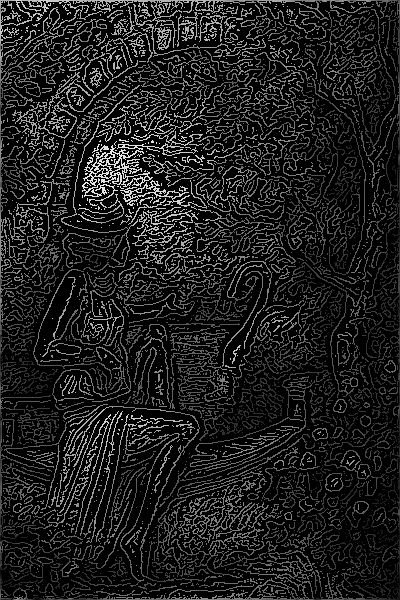
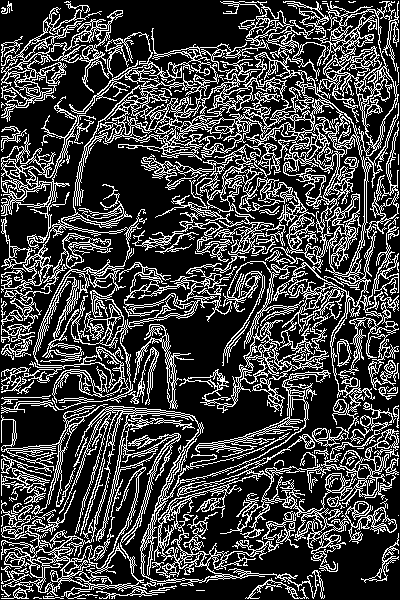
modify gitignore

diff --git a/hw2_b11902167/hw2.py b/hw2_b11902167/hw2.py
@@ -29,46 +29,61 @@ class Image:
 
         return gradient_magnitude, gradient_orientation
 
-    def non_maximum_suppression(img, magnitude, orientation):
+    def non_maximum_suppression(img, orientation):
         for r in range(1, img.shape[0]-1):
             for c in range(1, img.shape[1]-1):
                 angle = orientation[r, c]
                 # print(orientation[r, c])
                 if angle < np.pi/8 or angle >= 7*np.pi/8:
-                    if magnitude[r, c] < magnitude[r, c-1] or magnitude[r, c] < magnitude[r, c+1]:
+                    if img[r, c] < img[r, c-1] or img[r, c] < img[r, c+1]:
                         img[r, c] = 0
                 elif angle >= np.pi/8 and angle < 3*np.pi/8:
-                    if magnitude[r, c] < magnitude[r-1, c+1] or magnitude[r, c] < magnitude[r+1, c-1]:
+                    if img[r, c] < img[r-1, c+1] or img[r, c] < img[r+1, c-1]:
                         img[r, c] = 0
                 elif angle >= 3*np.pi/8 and angle < 5*np.pi/8:
-                    if magnitude[r, c] < magnitude[r-1, c] or magnitude[r, c] < magnitude[r+1, c]:
+                    if img[r, c] < img[r-1, c] or img[r, c] < img[r+1, c]:
                         img[r, c] = 0
                 elif angle >= 5*np.pi/8 and angle < 7*np.pi/8:
-                    if magnitude[r, c] < magnitude[r-1, c-1] or magnitude[r, c] < magnitude[r+1, c+1]:
+                    if img[r, c] < img[r-1, c-1] or img[r, c] < img[r+1, c+1]:
                         img[r, c] = 0
         
         return img
 
+    def finding_connected(img):
+        img_new = img.copy()
+        stack = []
+
+        # DFS finding connected component
+        for r in range(1, img_new.shape[0]-1):
+            for c in range(1, img_new.shape[1]-1):
+                if img_new[r, c] == 255:
+                    stack.append((r, c))
+                    while stack:
+                        r, c = stack.pop()
+                        directions = [(0, 1), (1, 0), (0, -1), (-1, 0), (1, 1), (1, -1), (-1, 1), (-1, -1)]
+                        for dr, dc in directions:
+                            if 0 < img_new[r+dr, c+dc] < 255:
+                                stack.append((r+dr, c+dc))
+                        img_new[r, c] = 255
+        
+        # Remove not connected component
+        img_new[img_new < 255] = 0
+        return img_new
+            
+
     def Canny(img, threshold1, threshold2):
         img_new = Image.denoise_Guassian(img, 5)
-        magnitude, orientation = Image.compute_manitude_and_orientation(img_new)
-        directions = [[0, 1], [1, 1], [1, 0], [1, -1]]
-        plt.hist(magnitude.ravel())
-        # Non-maximum suppression
-        img_new = Image.non_maximum_suppression(img_new, magnitude, orientation)
+        img_new, orientation = Image.compute_manitude_and_orientation(img_new)
+        
+        # # Non-maximum suppression
+        img_new = Image.non_maximum_suppression(img_new, orientation)
 
         # Hysteretic thresholding
-        # img_new[img_new < threshold1] = 0
-        # img_new[img_new >= threshold2] = 255
+        img_new[img_new < threshold1] = 0
+        img_new[img_new >= threshold2] = 255
 
         # Connected component labeling
-        # for r in range(1, img_new.shape[0]-1):
-        #     for c in range(1, img_new.shape[1]-1):
-        #         if img_new[r, c] != 0:
-        #             for direction in directions:
-        #                 if img_new[r+direction[0], c+direction[1]] == 255:
-        #                     img_new[r, c] = 255
-        #                     break
+        img_new = Image.finding_connected(img_new)
         
         return img_new
 
@@ -81,6 +96,17 @@ class Image:
         img_new[img_new >= threshold] = 255
         return img_new
 
+    def Laplacian_of_Gaussian(img):
+        img_new = img.copy()
+        kernel = np.array([[-2, 1, 2], [-1, 4, -1], [-2, 1, 2]]) / 8
+        for r in range(1, img_new.shape[0]-1):
+            for c in range(1, img_new.shape[1]-1):
+                sub_img = img_new[r-1:r+2, c-1:c+2]
+                img_new[r, c] = np.sum(sub_img * kernel)
+
+        return img_new        
+
+
 if __name__ == "__main__":
     sample1 = cv2.imread('hw2_sample_images/sample1.png', cv2.IMREAD_GRAYSCALE)
     # result1 = Image.Sobel(sample1)
@@ -90,8 +116,10 @@ if __name__ == "__main__":
     # cv2.imwrite('result2.png', result2)
     # plt.hist(result1.ravel(), 256, [0, 256])
 
-    result3 = Image.Canny(sample1, 90, 180)
-    cv2.imwrite('result3.png', result3)
+    # result3 = Image.Canny(sample1, 10, 90)
+    # cv2.imwrite('result3.png', result3)
 
+    result4 = Image.Laplacian_of_Gaussian(sample1)
+    cv2.imwrite('result4.png', result4)
 
     plt.show()
